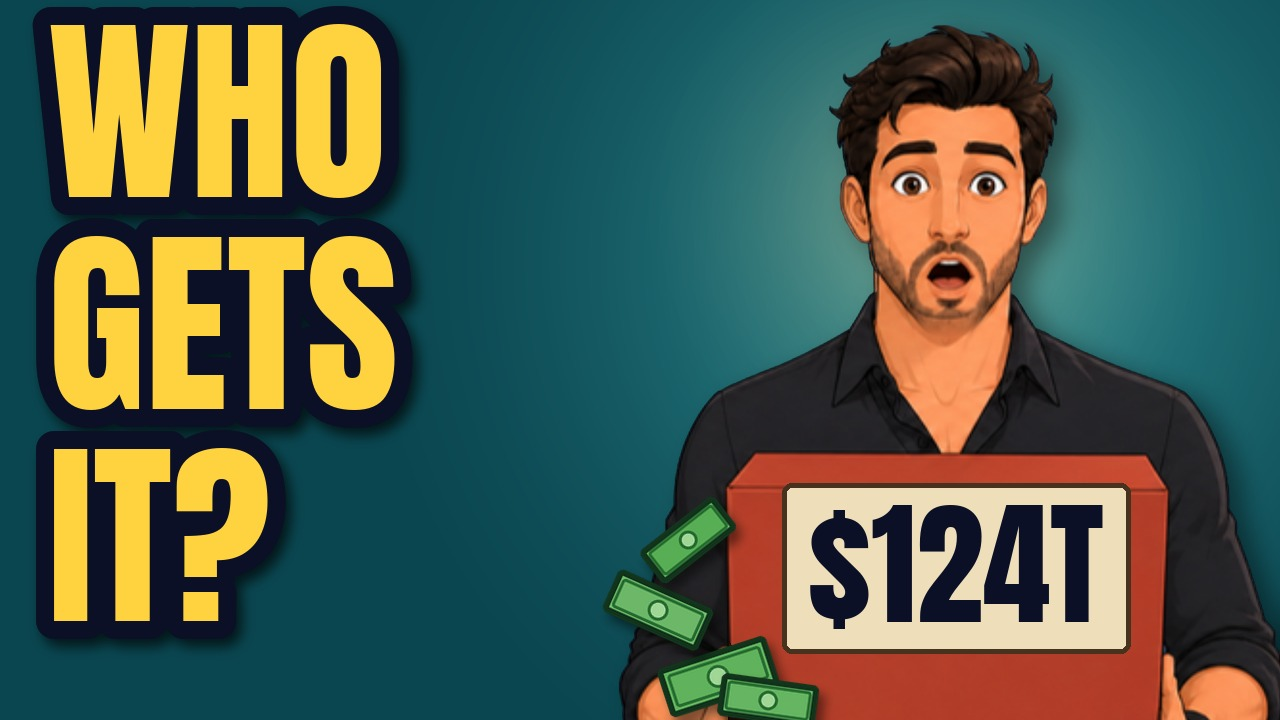
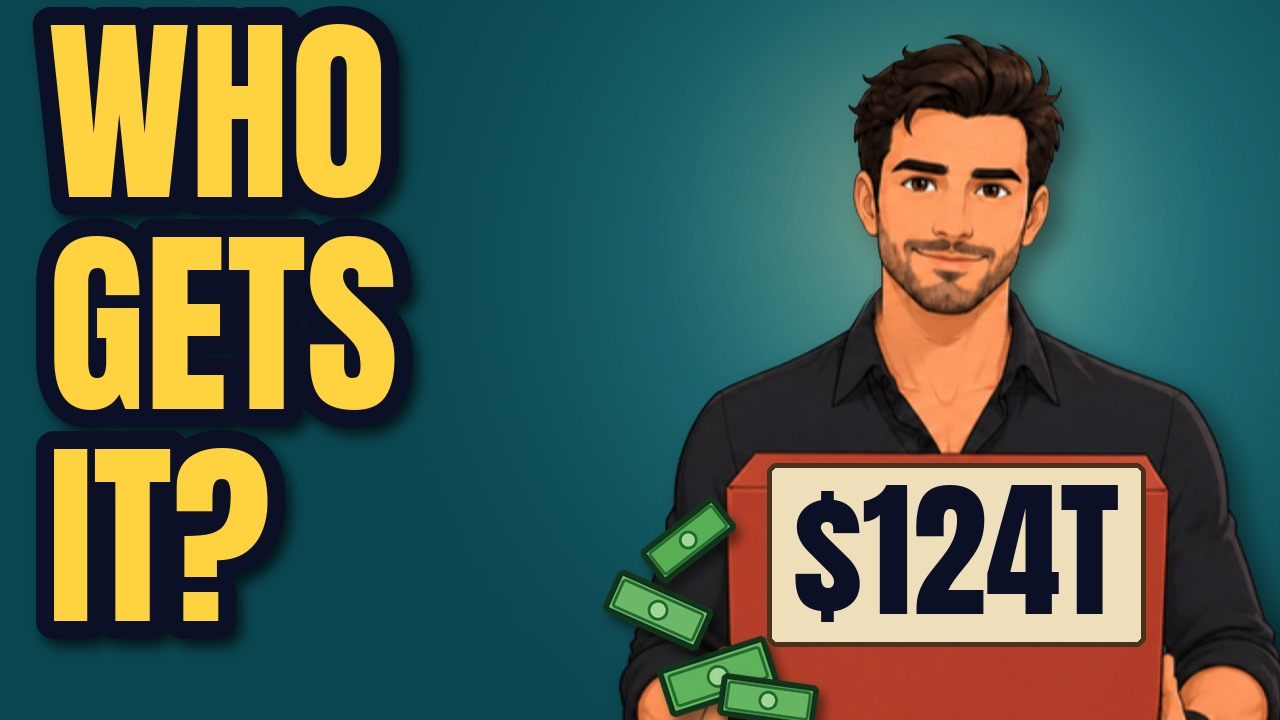
miras-sizintilari: thumbnail K1 ifade değişimi (şaşkın → kuşkulu, kafa değişimi) + 168x94 yeniden test
Claude-Session: https://claude.ai/code/session_019bCNGEBBQaepmiQNuPNZwX

Changed region(s): [[0.5938, 0.6417, 0.9062, 0.9167], [0.625, 0.0306, 0.8438, 0.4583]]

diff --git a/uretim/2026-11-04-miras-sizintilari/09-paket/thumbnail/kafa-degis.py b/uretim/2026-11-04-miras-sizintilari/09-paket/thumbnail/kafa-degis.py
@@ -1,0 +1,38 @@
+#!/usr/bin/env python3
+"""Thumbnail kafa değişimi (yeni Canva üretimi yok). Gövde = miras 05-gorsel/leo/<M>.png, kafa = 1929 05-gorsel/leo/<ifade>.png.
+Hiza: kafa bölgesinde (y 40–340, x 820–1100) gri ton mutlak farkı en küçük kayma (±70 px). Maske hedef koordinatında, y_kes'te yumuşak geçiş.
+Kullanım: python3 -I kafa-degis.py <govde M06> <kafa c-isaret> <cikis adı> [dx] [y_kes]  → leo/<cikis>.png + hiza raporu (stdout)"""
+import os, sys, numpy as np
+from PIL import Image, ImageDraw, ImageFilter
+KOK = os.path.dirname(os.path.abspath(__file__)); VID = os.path.abspath(os.path.join(KOK, "..", ".."))
+L29 = os.path.join(VID, "..", "2026-10-26-1929-1000-dolar/05-gorsel/leo")
+def gri(im): x = np.array(im).astype(float); return x[..., :3].mean(-1) * (x[..., 3] > 0)
+def hiza(govde, kafa):
+    A, B = gri(govde), gri(kafa); en = None
+    for dy in range(-30, 31, 2):
+        for dx in range(-70, 71, 2):
+            e = np.abs(A[40:340, 820:1100] - np.roll(np.roll(B, dy, 0), dx, 1)[40:340, 820:1100]).mean()
+            if en is None or e < en[0]: en = (e, dx, dy)
+    return en
+def degis(govde, kafa, dx, dy, y_kes=392, yumus=16):
+    k = Image.new("RGBA", govde.size, (0, 0, 0, 0)); k.paste(kafa, (dx, dy), kafa)
+    m = Image.new("L", govde.size, 0); d = ImageDraw.Draw(m)
+    d.ellipse((770, -60, 1120, y_kes + 30), fill=255); d.rectangle((770, -60, 1120, 200), fill=255)
+    a = np.array(m.filter(ImageFilter.GaussianBlur(yumus))).astype(np.float32) / 255; a[y_kes + 30:, :] = 0
+    ka = np.array(k.getchannel("A")).astype(np.float32) / 255; w = a * ka
+    G = np.array(govde).astype(np.float32); K = np.array(k).astype(np.float32)
+    # maske içinde kafa katmanı gövdenin YERİNE geçer (eski kafanın kulak/saç/çene izi kalmasın): premultiplied karışım
+    Ga = G[..., 3:] / 255 * (1 - a[..., None]); Kw = w[..., None]
+    alfa = Ga + Kw; out = G.copy()
+    out[..., :3] = np.where(alfa > 0, (G[..., :3] * Ga + K[..., :3] * Kw) / np.maximum(alfa, 1e-6), G[..., :3]); out[..., 3] = (alfa[..., 0] * 255)
+    return Image.fromarray(out.round().astype(np.uint8), "RGBA")
+if __name__ == "__main__":
+    gv, kf, ad = sys.argv[1:4]
+    govde = Image.open(os.path.join(VID, "05-gorsel/leo", gv + ".png")).convert("RGBA"); kafa = Image.open(os.path.join(L29, kf + ".png")).convert("RGBA")
+    e, dx, dy = hiza(govde, kafa)
+    if len(sys.argv) > 4: dx = int(sys.argv[4])          # elle dx (eğik kafada boyun sürekliliği için hiza ile yaka arasında uzlaşma)
+    yk = int(sys.argv[5]) if len(sys.argv) > 5 else 392
+    out = degis(govde, kafa, dx, dy, y_kes=yk)
+    # yaka geçişi: y_kes ±40 satırında gövde ile fark (sıçrama ölçüsü, gorsel-varlik-sanatcisi 'satır sıçraması' ile aynı mantık)
+    s = np.abs(gri(out)[352:432, 800:1100] - gri(govde)[352:432, 800:1100]).mean()
+    out.save(os.path.join(KOK, "leo", ad + ".png")); print(f"{ad}: hiza farkı {e:.2f} dx {dx} dy {dy} | yaka bandı fark {s:.2f}")

diff --git a/uretim/2026-11-04-miras-sizintilari/09-paket/thumbnail/thumb-uret.py b/uretim/2026-11-04-miras-sizintilari/09-paket/thumbnail/thumb-uret.py
@@ -102,7 +102,7 @@ def metin(lay, kut, x, y, kelimeler, px, kontur=True, plaka=None, kr=LAC):
     return max(b[2][2] for b in boxes), max(b[2][3] for b in boxes)
 
 # ---------- varyantlar ----------
-def varyant_K1(vid, yuz="K1-M06-saskin"):
+def varyant_K1(vid, yuz=os.path.join(KOK, "leo", "K1c-M06-kuskulu")):   # 2026-11-09: şaşkın → bilmiş/kuşkulu (c-isaret kafası; kanal-analisti teşhisi: ifade tekrarı)
     """Duygu: Leo şaşkın, kucağındaki kutunun alt köşesi yarık, banknotlar sola dökülüyor; kutu etiketi $124T. Metin WHO / GETS / IT?"""
     bg = zemin((10, 70, 80), [(960, 260, 620, (64, 168, 172), 0.85), (930, 210, 300, (255, 196, 120), 0.35)])
     s, ox, oy = 0.80, 190, 0
@@ -116,12 +116,12 @@ def varyant_K1(vid, yuz="K1-M06-saskin"):
     for cx, cy, w, a, t in ((bx0 - 10, 676, 120, 18, 0), (bx0 - 70, 610, 110, -24, 12), (bx0 - 40, 540, 100, 38, -8), (bx0 + 40, 700, 104, -8, 6)):
         banknot(bg, cx, cy, w, a, t)
     # kutu etiketi: kraft levha + $124T (Cerulli tahmini, 2048'e kadar; atıf yok, H8)
-    ex = (bx0 + bx1) // 2 + 10; ey = by0 + 44
-    f = font(136); tb = ImageDraw.Draw(lay).textbbox((0, 0), "$124T", font=f); tw, th = tb[2] - tb[0], tb[3] - tb[1]
+    ex = (bx0 + bx1) // 2 + 10; ey = by0 + 24
+    f = font(150); tb = ImageDraw.Draw(lay).textbbox((0, 0), "$124T", font=f); tw, th = tb[2] - tb[0], tb[3] - tb[1]
     lb = (ex - tw // 2 - 26, ey - 16, ex + tw // 2 + 26, ey + th + 30)
     ImageDraw.Draw(bg).rounded_rectangle(lb, 10, fill=KRAFT + (255,), outline=(70, 50, 30, 255), width=5)
     ImageDraw.Draw(lay).text((ex - tw // 2 - tb[0], ey - tb[1] + 6), "$124T", font=f, fill=LAC + (255,))
-    kut.append({"metin": "$124T", "renk": LAC, "bbox": [ex - tw // 2, ey + 6, ex + tw // 2, ey + th + 6], "px": 136, "kontur": 0, "levha": KRAFT})
+    kut.append({"metin": "$124T", "renk": LAC, "bbox": [ex - tw // 2, ey + 6, ex + tw // 2, ey + th + 6], "px": 150, "kontur": 0, "levha": KRAFT})
     # başlık metni: 3 satır, sol 40–580
     # 3 satır yüksekliğe sığdır (16–700 px): satır kutusu yüksekliği ölçülerek px küçültülür
     px = 200
@@ -175,8 +175,8 @@ def varyant_K4(vid, yuz="K4-M05-saskin"):
     metin(lay, kut, 72, yb + 52, [("LEAKING", BEYAZ)], 150, kontur=False, plaka=LAC)
     return bg, lay, kut
 
-VARYANT = {"K1": varyant_K1, "K3": varyant_K3, "K4": varyant_K4, "K4b": lambda v: varyant_K4(v, "K4b-M05-gulumser")}
-METIN = {"K1": "WHO GETS IT? + $124T", "K3": "SMALLER. LATER.", "K4": "IT KEEPS LEAKING", "K4b": "IT KEEPS LEAKING"}
+VARYANT = {"K1": varyant_K1, "K3": varyant_K3, "K4": varyant_K4, "K4b": lambda v: varyant_K4(v, "K4b-M05-gulumser"), "K1s": lambda v: varyant_K1(v, "K1-M06-saskin")}
+METIN = {"K1": "WHO GETS IT? + $124T", "K3": "SMALLER. LATER.", "K4": "IT KEEPS LEAKING", "K4b": "IT KEEPS LEAKING", "K1s": "WHO GETS IT? + $124T"}
 
 # ---------- ölçüm ----------
 def lum(c):

diff --git a/uretim/2026-11-04-miras-sizintilari/09-paket/thumbnail/thumb-test.py b/uretim/2026-11-04-miras-sizintilari/09-paket/thumbnail/thumb-test.py
@@ -9,7 +9,7 @@ from PIL import Image, ImageDraw, ImageFont, ImageFilter
 KOK = os.path.dirname(os.path.abspath(__file__))
 REPO = os.path.abspath(os.path.join(KOK, "..", "..", "..", ".."))
 BASLIK = "The Great Wealth Transfer Has a Leak"   # paket.md T1 (önerilen)
-BEKLENEN = {"K1": "WHO GETS IT 124T", "K3": "SMALLER LATER", "K4": "IT KEEPS LEAKING", "K4b": "IT KEEPS LEAKING"}
+BEKLENEN = {"K1": "WHO GETS IT 124T", "K3": "SMALLER LATER", "K4": "IT KEEPS LEAKING", "K4b": "IT KEEPS LEAKING", "K1s": "WHO GETS IT 124T"}
 DJV = "/usr/share/fonts/truetype/dejavu/DejaVuSans.ttf"
 DJVB = "/usr/share/fonts/truetype/dejavu/DejaVuSans-Bold.ttf"
 

diff --git a/uretim/2026-11-04-miras-sizintilari/09-paket/thumbnail/thumb-rapor.md b/uretim/2026-11-04-miras-sizintilari/09-paket/thumbnail/thumb-rapor.md
@@ -1,5 +1,7 @@
 # F8a — Thumbnail raporu · S03 · başlık T1 "The Great Wealth Transfer Has a Leak"
 
+**Revizyon 2026-11-09 (kanal-analisti teşhisi `01-arastirma/teshis-11-09.md`: ifade tekrarı).** K1'de şaşkın yüz yerine bilmiş, kuşkulu bakış kullanıldı. Kafa değişimiyle yapıldı: gövde M06 (kutu), kafa 1929 `leo/c-isaret`. Betik `kafa-degis.py`, dx −36, y_kes 392, yaka bandı farkı 9,82. Önceki K1-M06-saskin'deki fark 15,65 idi. Ayrıntı `test/kafa-degis-cikti.txt`. Yeni Canva üretimi yok. Final ifadeleri: **K1 kuşkulu · K3 nötr · K4 şaşkın**; finallerde şaşkın ifade artık 3'te 1. $124T etiketi 150 px'e büyütüldü ve yukarı alındı. Önceki K1, `K1s` adıyla `adaylar/` klasöründe duruyor.
+
 İLERLEME: tamam (3 finalist, kapıların hepsi geçti). Yeniden üretim: `THUMB_TMP=<geçici> python3 -I thumb-uret.py` → `cp adaylar/{K1,K3,K4}.jpg` finalist adlarına → `python3 -I thumb-test.py <repo-dışı rakip klasörü> K1 K3 K4`.
 **Karar:** Test & Compare sırası **1) K1 · 2) K4 · 3) K3**. Varsayılan (ilk yüklenen) K1: hakem H8 konsepti, paket.md'deki T1 zinciri ("sızıntı var → kime kalıyor?") ve hook H1b'nin sonu ("So what really reaches the kids?") ile aynı vaat.
 **Kapılar [Ö]:** 1280x720 JPEG ✅ · ≤2 MB (108–111 KB) ✅ · ≤4 kelime ✅ · 168x94 bölge OCR'ında metnin tamamı okundu ✅ · p5 ≥4,5 ✅ (min 4,66) · süre damgası alanında metin 0 px ✅ · iki koşu aynı (`diff test/uret-1.txt test/uret-2.txt`) ✅.
@@ -10,7 +12,7 @@ Etiketler: **[Ö]** betik ölçümü · **[T]** yargı.
 ## Finalistler
 | Sıra | Dosya (sha256 ilk 12) | Açı | Metin | Kaynak |
 |---|---|---|---|---|
-| 1 | `K1-who-gets-it.jpg` (5256b742022b) | duygu + soru | **WHO / GETS / IT?** (sarı, lacivert kontur) + kutu etiketinde **$124T** | `thumb-leo/K1-M06-saskin.png` (M06 kiremit kutu + d-saskin kafa), ×0,80. Kod: koyu camgöbeği zemin + sıcak ışık, kutu köşesinden sola dökülen 4 banknot, kraft etiket |
+| 1 | `K1-who-gets-it.jpg` (623027240f81) | merak + soru (bilmiş, kuşkulu bakış) | **WHO / GETS / IT?** (sarı, lacivert kontur) + kutu etiketinde **$124T** | `leo/K1c-M06-kuskulu.png` (M06 kiremit kutu + c-isaret kafası, `kafa-degis.py`), ×0,80. Kod: koyu camgöbeği zemin + sıcak ışık, kutu köşesinden sola dökülen 4 banknot, kraft etiket |
 | 2 | `K4-keeps-leaking.jpg` (6bf2d245ba41) | mizah / eylem (bant gag'i) | **IT KEEPS** + **LEAKING** (lacivert levha) | `thumb-leo/K4-M05-saskin.png` (M05 bant + yeşil kutu), ×0,68. Kod: tuğla-mercan zemin, sağ köşede çapraz eski bant, sol köşede yarık ve dökülen banknotlar |
 | 3 | `K3-smaller-later.jpg` (5509f04fce40) | karşıtlık | **SMALLER.** (lacivert, beyaz kontur) + **LATER.** (kırmızı levha) | `thumb-leo/K3b-M04-notr.png` (M04 pano + a kafası), ×0,74 + `nesne/M02-kiremit.png` (büyük) + `nesne/M02-kiremit-yarik.png` (küçük, bantlı). Panoda 6 durak çizgisi, kayıplı 3'ü kırmızı çizik |
 
@@ -19,21 +21,21 @@ Etiketler: **[Ö]** betik ölçümü · **[T]** yargı.
 **Doğruluk / politika:** $124T = Cerulli tahmini, 2048'e kadar [D, paket.md]; etikette atıf yok, "Bank of America" yazmıyor (H8). K3'teki kutu oranı `03-metin/veri/kutu-hesap.py`'den: 10 kutu yükleniyor, 6 kutu teslim ediliyor. Alan oranı 0,6, kenar oranı √0,6 = 0,7746 (290 → 225 px); abartı yok. "LATER." eş durağının bir gecikme olduğunu söylüyor, kayıp değil (D2). Banknotlar genel çizim: yazı, portre, gerçek para deseni yok. Gerçek kişi, logo, ev veya FOR SALE tabelası yok (H7, rakip klişesi). Leo kurgusal; şapka ve ceket yok (Fred/Marcus ayrışması).
 
 ## Test kapısı [Ö]
-`python3 -I thumb-uret.py` (sha256 betik 86e171bc6861, iki koşu aynı) · `python3 -I thumb-test.py <rakip> K1 K3 K4` (thumb-test v3 8a6c43edfc74: v2 + kelime kutusu başına psm 7). Çıktılar: `test/uret-1.txt`, `test/test-cikti.txt`, `test/olcum-adaylar.json`, `test/ocr-168x94-finalist.json`, `test/rakip-benzerlik.json`, `test/mobil-168x94-finalist.png`.
+`python3 -I thumb-uret.py` (sha256 betik 931e42f75e16, iki koşu aynı; kafa-degis.py ee51ca50eef0) · `python3 -I thumb-test.py <rakip> K1 K3 K4` (thumb-test v3 7b11597cf6f3: v2 + kelime kutusu başına psm 7). Çıktılar: `test/uret-1.txt`, `test/test-cikti.txt`, `test/olcum-adaylar.json`, `test/ocr-168x94-finalist.json`, `test/rakip-benzerlik.json`, `test/mobil-168x94-finalist.png`.
 
 | Ölçüt | K1 | K4 | K3 | Eşik |
 |---|---|---|---|---|
 | Dosya | 108 KB | 109 KB | 111 KB | ≤2 MB |
 | Kelime | 4 (3 + $124T) | 3 | 2 | ≤4 |
-| 168x94 büyük harf (min) | 15,4 px | 16,9 px | 13,5 px | ≥9 |
+| 168x94 büyük harf (min) | 16,9 px | 16,9 px | 13,5 px | ≥9 |
 | OCR tam boyut (psm 11) | 3/4 | 3/3 | 1/2 (araç) | taban |
 | OCR 168x94 tam kare | 3/4 | 3/3 | 0/2 | — |
-| **OCR 168x94 metin bölgesi** | **4/4** | **3/3** | **2/2** | tamamı |
-| OCR 168x94 kelime kırpımı psm 7 | 2/4 ("GETS", "IT"; "$124T" → "1241") | 3/3 | 2/2 | — |
+| **OCR 168x94 metin bölgesi (psm 11 ∪ kelime psm 7)** | **4/4** (psm 11: WHO GETS IT · psm 7: 124T) | **3/3** | **2/2** | tamamı |
+| OCR 168x94 kelime kırpımı psm 7 | 3/4 ("124T", "GETS", "IT") | 3/3 | 2/2 | — |
 | Kontrast metin ↔ zemin, p5 (min) | 7,06 (etiket: kraft üstünde lacivert) | 4,66 | 5,01 | ≥4,5 |
 | Dolgu ↔ kontur (WCAG) | 13,03 | 18,81 | 18,81 | ≥4,5 |
 | Süre damgası alanında metin | 0 | 0 | 0 | 0 |
-| En yakın rakip renk farkı / rakip ortalaması | 96,5 Damon Cassidy / 146 | 98,6 Damon Cassidy / 135 | 107 Prof. Blackwood / 144 | — |
-| Finalistler arası renk farkı | K1–K3 176 · K1–K4 124 · K3–K4 135 | | | ayrışma |
+| En yakın rakip renk farkı / rakip ortalaması | 95,7 Damon Cassidy / 146 | 98,6 Damon Cassidy / 135 | 107 Prof. Blackwood / 144 | — |
+| Finalistler arası renk farkı | K1–K3 175 · K1–K4 124 · K3–K4 135 | | | ayrışma |
 
 OCR notu: K3 tam karede 0/2 okunuyor; açık zemin, Leo ve kutular sayfa bölütlemesini bozuyor (S08 C1'de de aynı oldu). Metin bölgesinde ve psm 7'de 2/2. K1'deki "$124T" etiketi psm 7'de "1241" okunuyor, bölge OCR'ında "124T" tam. İlk sürümde etiket 112 px'ti ve süre damgası alanına 816 px taşıyordu; etiket 136 px'e büyütülüp yukarı alındı, taşma 0 oldu. Rakip benzerliği: en yakın rakip farkı 96–107, rakip ortalaması 135–146; finaller rakip kümesinden ayrışıyor. Rakip ızgarası repo dışında.

diff --git a/.claude/agents/hafiza/thumbnail-tasarimcisi.md b/.claude/agents/hafiza/thumbnail-tasarimcisi.md
@@ -31,3 +31,4 @@
 - Bel kesitli Leo'yu sağa yasladığında 3 satır metin sol ~560 px'e sığmalı. px'i ölçerek küçültmek gerekiyor (`thumb-uret.py` K1 döngüsü); sabit 196 px ile "IT?" kadrajdan taştı. Nesne etiketi (kutu üstü $124T) süre damgası kutusuna taşabilir, ölçümü her etiket için yap.
 - Leo'nun yanındaki levha veya etiket metni psm 11'de kaçıyor, psm 7 kırpımı ise "$" ve "T" harflerinde zayıf ("1241"). İkisini birlikte raporla (thumb-test v3). Oran gösteren nesne kıyasında alan oranı = veri (kutu-hesap 6/10 → kenar √0,6).
 - 2026-11-09 (kanal-analisti teşhisi): Leo'nun aynı "ağzı açık şaşkın" yüzü S08 A1 + miras K1/K3/K4'te; en iyi giden 1929 A2 sahne + işaret eden sakin Leo (zayıf kanıt, CTR yok). → İfade/poz döndür, aynı yüz ardışık iki videoda yok, hikâye nesnesi ana öğe.
+- 2026-11-09 revizyon: S08 ve miras finallerinin hepsinde aynı şaşkın Leo vardı, bu kanal düzeyinde bir tekrar deseni (kanal-analisti teşhisi). Kural: 3 finalde aynı ifade en fazla 1 kez kullanılır, önceki videonun finallerine de bakılır. Eğik kafada (c-isaret) hizanın bulduğu en iyi dx (−48) boyunda basamak bırakıyor. dx'i yaka bandı farkını en küçük yapacak şekilde uzlaştır (−36 → 9,8). Maskede eski kafayı premultiplied karışımla sil (`kafa-degis.py`).
